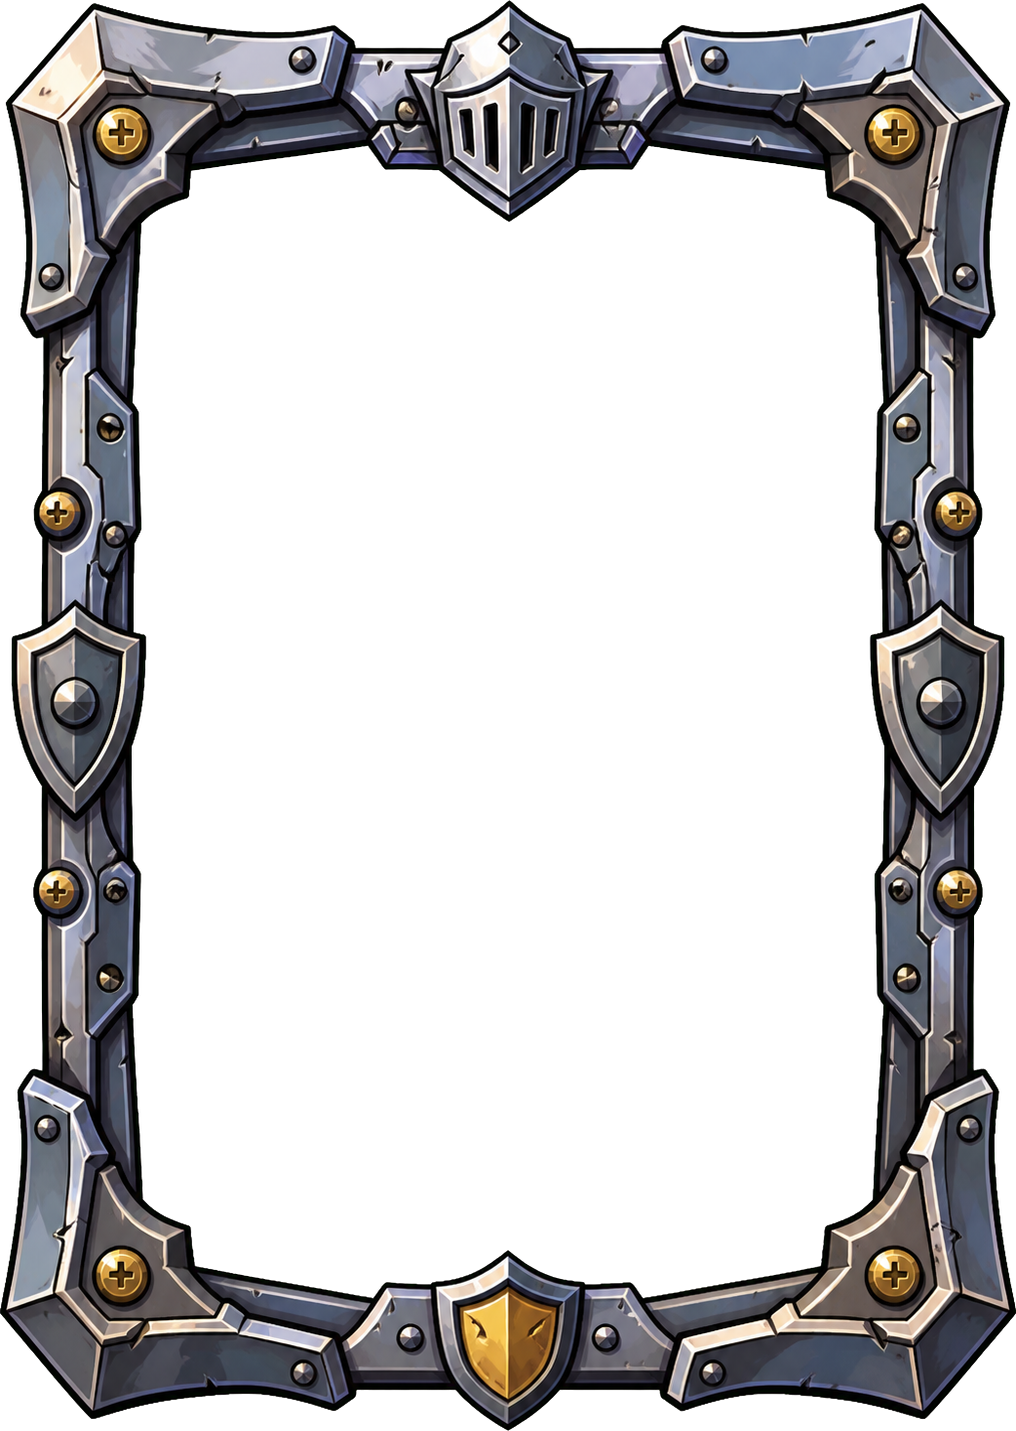
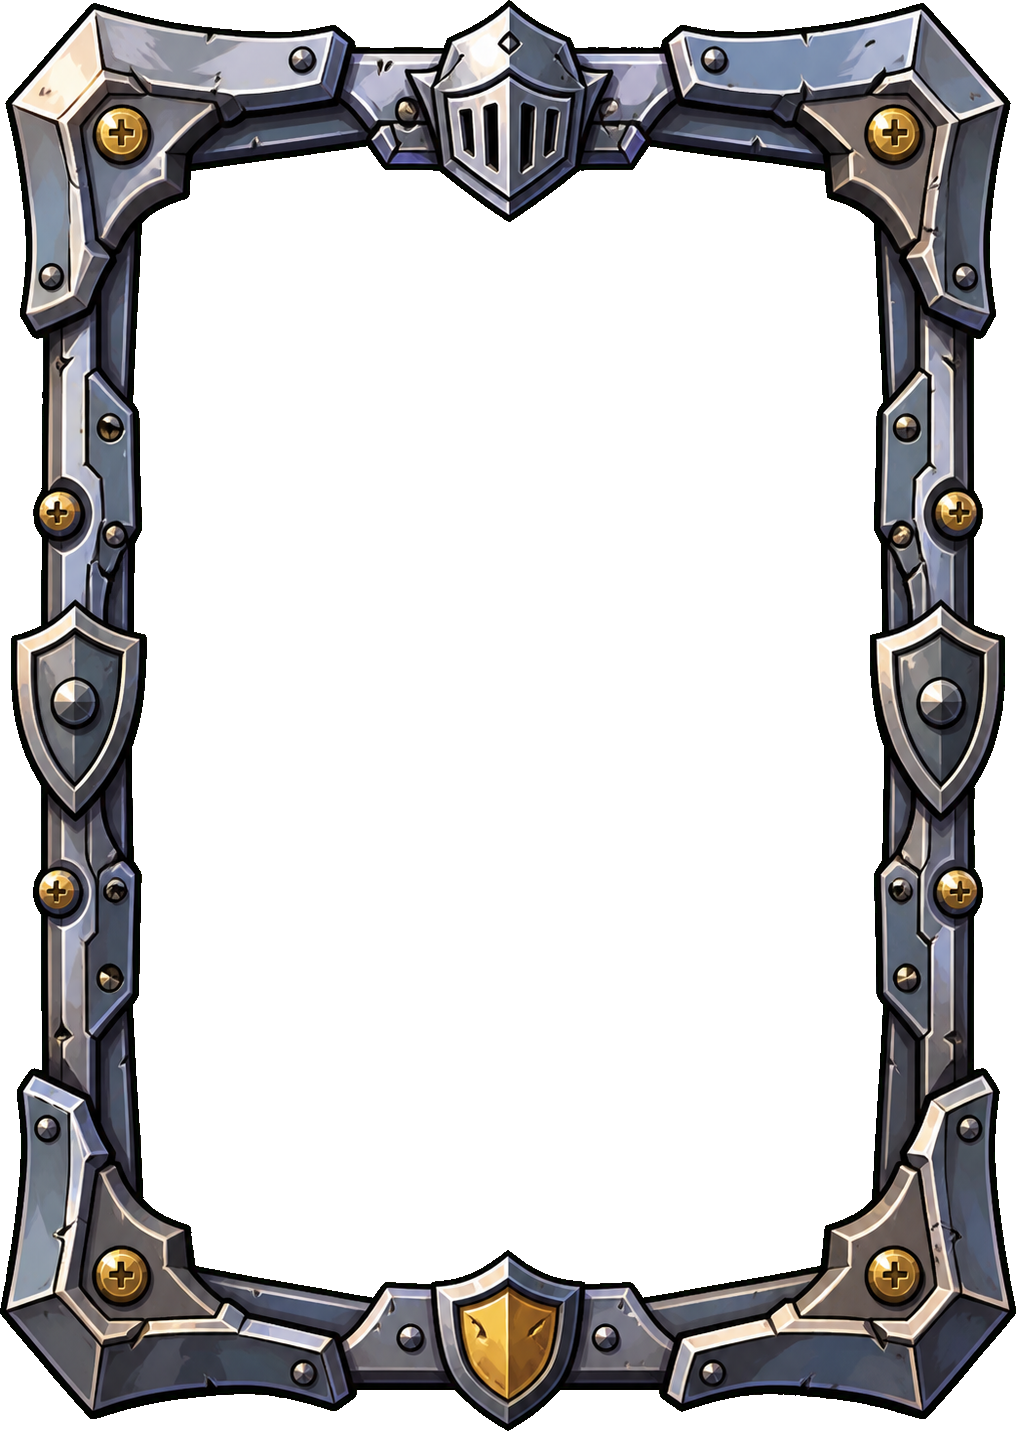
aaa

diff --git a/js/main.js b/js/main.js
@@ -73,7 +73,9 @@ const ASSETS_TO_LOAD = {
         'assets/img/carta_desarmar_mago.webp', 'assets/img/carta_treinar_mago.webp',
         'assets/img/cluster_jogador.webp', 'assets/img/cluster_inimigo.webp',
         'assets/img/ui_selo_pronto.png', 'assets/img/borda_metalica_card.png',
-        'assets/img/borda_bosque_elfico_card.png', 'assets/img/borda_forja_vulcanica_card.png'
+        'assets/img/borda_bosque_elfico_card.png', 'assets/img/borda_forja_vulcanica_card.png',
+        'assets/img/borda_cristal_arcano_card.png', 'assets/img/borda_tesouro_pirata_card.png',
+        'assets/img/borda_gelo_nordico_card.png'
     ],
     audio: [
         { id: 'bgm-menu', src: 'assets/audio/musica_menu.mp3', loop: true },
@@ -333,22 +335,37 @@ const SHOP_ITEMS = {
         id: 'metallic_border',
         name: 'BORDA - GUARDA REAL',
         slot: 'cardBorder',
-        cssClass: 'royal',
         asset: 'assets/img/borda_metalica_card.png'
     },
     elven_forest_border: {
         id: 'elven_forest_border',
         name: 'BORDA - BOSQUE ÉLFICO',
         slot: 'cardBorder',
-        cssClass: 'elven',
         asset: 'assets/img/borda_bosque_elfico_card.png'
     },
     volcanic_forge_border: {
         id: 'volcanic_forge_border',
         name: 'BORDA - FORJA VULCÂNICA',
         slot: 'cardBorder',
-        cssClass: 'forge',
         asset: 'assets/img/borda_forja_vulcanica_card.png'
+    },
+    arcane_crystal_border: {
+        id: 'arcane_crystal_border',
+        name: 'BORDA - CRISTAL ARCANO',
+        slot: 'cardBorder',
+        asset: 'assets/img/borda_cristal_arcano_card.png'
+    },
+    pirate_treasure_border: {
+        id: 'pirate_treasure_border',
+        name: 'BORDA - TESOURO PIRATA',
+        slot: 'cardBorder',
+        asset: 'assets/img/borda_tesouro_pirata_card.png'
+    },
+    northern_ice_border: {
+        id: 'northern_ice_border',
+        name: 'BORDA - GELO NÓRDICO',
+        slot: 'cardBorder',
+        asset: 'assets/img/borda_gelo_nordico_card.png'
     }
 };
 window.SHOP_ITEMS = SHOP_ITEMS;
@@ -356,9 +373,9 @@ window.SHOP_ITEMS = SHOP_ITEMS;
 function updatePlayerInventoryState(inventory = [], equippedItems = {}) {
     window.playerInventory = Array.isArray(inventory) ? [...new Set(inventory)] : [];
     window.equippedItems = equippedItems && typeof equippedItems === 'object' ? { ...equippedItems } : {};
-    document.body.classList.remove('player-card-border-royal', 'player-card-border-elven', 'player-card-border-forge');
     const equippedBorder = SHOP_ITEMS[window.equippedItems.cardBorder];
-    if(equippedBorder?.cssClass) document.body.classList.add(`player-card-border-${equippedBorder.cssClass}`);
+    if(equippedBorder?.asset) document.body.style.setProperty('--player-card-border-url', `url('${equippedBorder.asset}')`);
+    else document.body.style.removeProperty('--player-card-border-url');
     window.refreshShopInventoryState?.();
     window.renderInventoryItems?.();
 }

diff --git a/js/effects.js b/js/effects.js
@@ -2137,8 +2137,11 @@ safeLobbyEnhancement('ajustes visuais estaticos', () => {
 
         const lobbyCardBorderItems = [
             { id: 'metallic_border', name: 'BORDA - GUARDA REAL', asset: 'assets/img/borda_metalica_card.png' },
-            { id: 'elven_forest_border', name: 'BORDA - BOSQUE ÉLFICO', asset: 'assets/img/borda_bosque_elfico_card.png' },
-            { id: 'volcanic_forge_border', name: 'BORDA - FORJA VULCÂNICA', asset: 'assets/img/borda_forja_vulcanica_card.png' }
+            { id: 'elven_forest_border', name: 'BORDA - BOSQUE \u00c9LFICO', asset: 'assets/img/borda_bosque_elfico_card.png' },
+            { id: 'volcanic_forge_border', name: 'BORDA - FORJA VULC\u00c2NICA', asset: 'assets/img/borda_forja_vulcanica_card.png' },
+            { id: 'arcane_crystal_border', name: 'BORDA - CRISTAL ARCANO', asset: 'assets/img/borda_cristal_arcano_card.png' },
+            { id: 'pirate_treasure_border', name: 'BORDA - TESOURO PIRATA', asset: 'assets/img/borda_tesouro_pirata_card.png' },
+            { id: 'northern_ice_border', name: 'BORDA - GELO N\u00d3RDICO', asset: 'assets/img/borda_gelo_nordico_card.png' }
         ];
 
         const renderBorderPreview = (item) => `<div class="metallic-border-art" style="background-image: url('${item.asset}')" aria-label="Arte de ${item.name}"></div>`;
@@ -2148,7 +2151,7 @@ safeLobbyEnhancement('ajustes visuais estaticos', () => {
                             ${renderBorderPreview(item)}
                             <button class="shop-buy-btn" type="button" data-buy-item="${item.id}">COMPRAR</button>
                         </div>`).join('');
-        const emptyShopSlotsHtml = Array.from({ length: 5 }, () => `
+        const emptyShopSlotsHtml = Array.from({ length: 2 }, () => `
                         <div class="lobby-shop-slot" aria-hidden="true"></div>`).join('');
 
         let shopModal = document.getElementById('lobby-shop-modal');

diff --git a/css/game.css b/css/game.css
@@ -94,11 +94,8 @@ body.pvp-waiting-table #game-background::after { opacity: 0.45; animation-durati
 #m-xp { top: 25px; } #p-xp { bottom: 180px; }
 @keyframes hudFloatCentered { 0%, 100% { transform: translateX(-50%) translateY(0); } 50% { transform: translateX(-50%) translateY(-6px); } }
 .xp-mini { width: 38px; height: 53px; margin: 0 2px; position: relative; border: 1px solid #111; border-radius: 3px; box-shadow: 0 4px 8px rgba(0,0,0,0.6); cursor: default; transition: transform 0.2s; background-size: cover; background-position: center; }
-body.player-card-border-royal { --player-card-border-url: url('../assets/img/borda_metalica_card.png'); }
-body.player-card-border-elven { --player-card-border-url: url('../assets/img/borda_bosque_elfico_card.png'); }
-body.player-card-border-forge { --player-card-border-url: url('../assets/img/borda_forja_vulcanica_card.png'); }
 .xp-mini.card-skin-metallic-border {
-    border-color: #eaf4ff !important;
+    border-color: transparent !important;
 }
 .xp-mini.card-skin-metallic-border::before {
     content: "";
@@ -133,7 +130,7 @@ body.player-card-border-forge { --player-card-border-url: url('../assets/img/bor
 .card { --rx: 0; --ry: 0; transition: margin 0.1s, box-shadow 0.1s, transform 0.05s linear, filter 0.1s, opacity 0.5s ease; pointer-events: auto; width: 110px; height: 155px; border-radius: 10px; color: white; border: 2px solid #111; display: flex; flex-direction: column; align-items: center; justify-content: flex-end; box-shadow: 0 10px 30px rgba(0,0,0,0.7); cursor: pointer; position: relative; margin: 0 -8px; transform-style: preserve-3d; background-color: #111; opacity: 1; visibility: visible; }
 .card.card-skin-metallic-border,
 .flying-card.card-skin-metallic-border {
-    border-color: #eaf4ff !important;
+    border-color: transparent !important;
 }
 .card.card-skin-metallic-border::before,
 .flying-card.card-skin-metallic-border::before {

diff --git a/index.html b/index.html
@@ -11,7 +11,7 @@
     
     <link rel="stylesheet" href="css/style.css?v=2026.06.22.4">
     <link rel="stylesheet" href="css/lobby.css?v=2026.06.20.1">
-    <link rel="stylesheet" href="css/game.css?v=2026.06.23.4">
+    <link rel="stylesheet" href="css/game.css?v=2026.06.23.5">
     <link rel="stylesheet" href="css/effects.css?v=2026.06.22.4">
 
     <link rel="icon" type="image/webp" href="assets/img/logo_buppo.webp">
@@ -273,8 +273,8 @@
     <div id="tooltip-box"><h3 id="tt-title"></h3><div id="tt-content"></div></div>
     <div id="modal-overlay" class="modal-overlay" onclick="cancelModal()"><div class="modal-box" onclick="event.stopPropagation()"><h2 id="modal-title"></h2><p id="modal-desc"></p><div class="modal-btns" id="modal-btns"></div></div></div>
 
-    <script src="js/effects.js?v=2026.06.23.4"></script> 
-    <script type="module" src="js/main.js?v=2026.06.23.3"></script>
+    <script src="js/effects.js?v=2026.06.23.5"></script> 
+    <script type="module" src="js/main.js?v=2026.06.23.4"></script>
 </body>
 </html>
 
